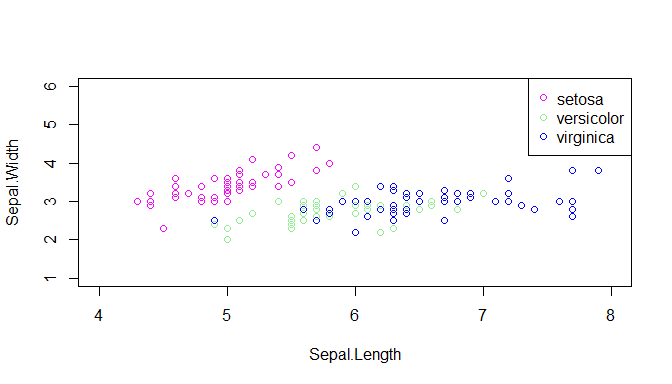
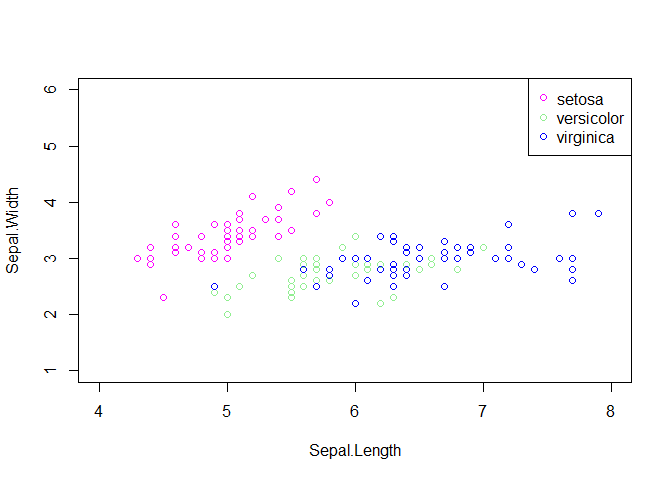
figures center
figures zentriert

diff --git a/anhang/Standard-Grafiksystem.md b/anhang/Standard-Grafiksystem.md
@@ -26,7 +26,7 @@ Devices sind wie Papier auf das gemalt wird. Einmal erzeugte Elemente lassen sic
 > plot(x, y)
 ```
 
-![](Standard-Grafiksystem_files/figure-html/fig1-1.png) 
+<img src="Standard-Grafiksystem_files/figure-html/fig1-1.png" title="" alt="" style="display: block; margin: auto;" />
 
 Für dieses Beispiel scheint uns die Standardausgabe (Kreissymbole) nicht passend zu sein. Wir würden viel lieber die Sinusfunktion als durchgezogene Linie sehen. Daher müssen wir den `type` ändern.
 
@@ -36,7 +36,7 @@ Für dieses Beispiel scheint uns die Standardausgabe (Kreissymbole) nicht passen
 > plot(x, y, type = "l")
 ```
 
-![](Standard-Grafiksystem_files/figure-html/fig2-1.png) 
+<img src="Standard-Grafiksystem_files/figure-html/fig2-1.png" title="" alt="" style="display: block; margin: auto;" />
 
 
 ## High-level Grafikfunktionen
@@ -67,7 +67,7 @@ Laut Tabelle eignet sich `curve()` zum plotten von Funktionen. Daher erzeugen wi
 > curve(sin(x), from = 0, to = 8)
 ```
 
-![](Standard-Grafiksystem_files/figure-html/fig2a-1.png) 
+<img src="Standard-Grafiksystem_files/figure-html/fig2a-1.png" title="" alt="" style="display: block; margin: auto;" />
 
 
 ### Beispiele anhand der iris Daten
@@ -101,7 +101,7 @@ Zuerst verwenden wir `plot()` mithilfe der Formelnotation `~`, erzeugen ein Hist
 > boxplot(iris$Sepal.Length ~ iris$Species)
 ```
 
-![](Standard-Grafiksystem_files/figure-html/fig3-1.png) 
+<img src="Standard-Grafiksystem_files/figure-html/fig3-1.png" title="" alt="" style="display: block; margin: auto;" />
 
 
 
@@ -158,7 +158,7 @@ green3 steht also an der dritten Stelle der Farbpalette. Daher liefen die beiden
 > plot(x, col = "green3")
 ```
 
-![](Standard-Grafiksystem_files/figure-html/fig4-1.png) 
+<img src="Standard-Grafiksystem_files/figure-html/fig4-1.png" title="" alt="" style="display: block; margin: auto;" />
 
 
 
@@ -197,7 +197,7 @@ wir in der Lage eine Legende anzugeben.
 +        pch = c(21, 21, 21), col = c(14, "lightgreen", "blue"))
 ```
 
-![](Standard-Grafiksystem_files/figure-html/fig5-1.png) 
+<img src="Standard-Grafiksystem_files/figure-html/fig5-1.png" title="" alt="" style="display: block; margin: auto;" />
 
 
 
